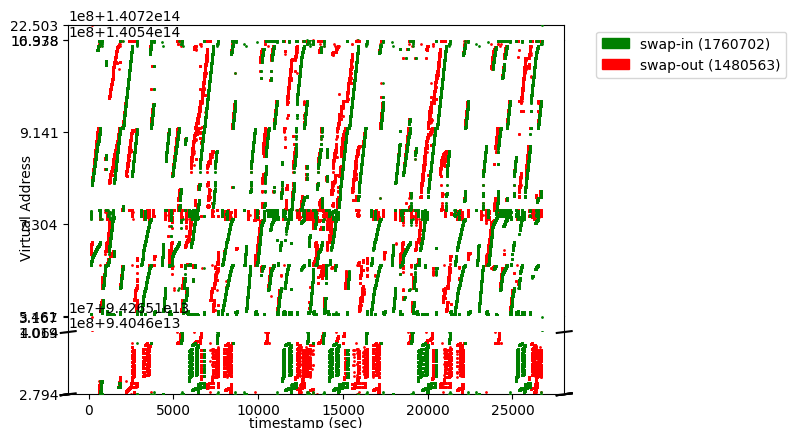
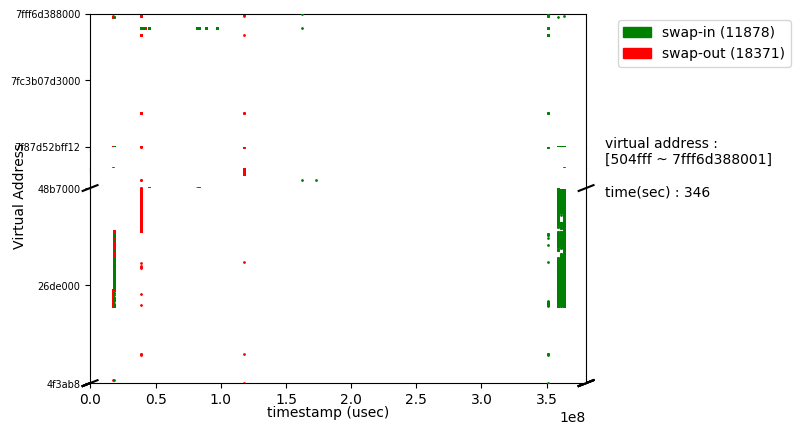
fix labels

Changed region(s): [[0.0, 0.0, 0.995, 1.0], [0.7538, 0.3037, 0.9648, 0.3949], [0.6935, 0.7593, 0.7236, 0.7897]]

diff --git a/driver/plot.py b/driver/plot.py
@@ -52,15 +52,13 @@ def plot_out(dir_path, option):
     limits = ADDRESS_RANGE
 
     for index, row in rsyslog[rsyslog['gap'] < -1 * pow(10,10)].nsmallest(3,'gap').iterrows():
-        print row['address'], row['prev'] , row['gap']
-        # pandas cut the category by ( , ] so the addresws +1 , prev-1
         limits.extend([row['address']+1, row['prev']-1])
 
     limits = sorted(limits)
 
 
 
-    print "calculate range"
+    print " > sample range"
     #START_ADDRESS = rsyslog.address.min()-PADDING
     #START_DIGITS = len(str(START_ADDRESS))-1
     #STEP = 0.001*pow(10,START_DIGITS)
@@ -91,12 +89,12 @@ def plot_out(dir_path, option):
         return weighted
 
 
-    print "add range"
+    print " > add range"
     height_ratios = map(lambda x : add_weight(x), rsyslog['axis'].value_counts(normalize=True).loc[lambda x: x > 0].sort_index(ascending=False).tolist())
 
     #print height_ratios
 
-    print "\n$ generate plot [ {} x 1 ] ".format(GRIDS)
+    print " > generate plot [ {} x 1 ] ".format(GRIDS)
 
     fig, axes = plt.subplots(nrows=GRIDS, ncols = 1, gridspec_kw={'height_ratios':height_ratios}, sharex=True)
     plt.subplots_adjust(wspace=0, hspace=0)
@@ -114,7 +112,6 @@ def plot_out(dir_path, option):
 
     idy = -1  
     
-    print "$ building plot"
     
     for name, region in rsyslog.groupby("axis"):
         if len(region) < 1:
@@ -145,7 +142,7 @@ def plot_out(dir_path, option):
             axes[converty].plot((1 - d, 1 + d), (-d, +d), **kwargs)  # top-right diagonal           
         #TODO: set ticks 
 
-        ticks = None
+        ticks = []
         if height_ratios[converty] > 50:
            ticks = map(lambda x: x.left, region['address'].value_counts(bins=3).sort_index().index.tolist())
            ticks.append(REGION_END)
@@ -153,9 +150,11 @@ def plot_out(dir_path, option):
            ticks = map(lambda x: x.left, region['address'].value_counts(bins=2).sort_index().index.tolist())
            ticks.append(REGION_END)
         else:
-            #ticks = [REGION_START, REGION_END]
-            ticks = []
+            pass
+
         axes[converty].set_yticks(ticks)
+        ticklabels = map(lambda x: format(int(x), 'x'), ticks)
+        axes[converty].set_yticklabels(ticklabels, fontsize='7')
 
 
 
@@ -165,24 +164,23 @@ def plot_out(dir_path, option):
 
     legend = axes[0].legend(handles = patches, bbox_to_anchor=(1.05, 1))
     plt.suptitle('Swap Trace [Address x timestamp]',fontsize=10)
-    fig.text(0.05, 0.5, 'Virtual Address', va='center', rotation='vertical')
+    fig.text(0.005,  0.5, 'Virtual Address', va='center', rotation='vertical')
 
-    textstr = None
+    text_str  = 'virtual address : \n[{} ~ {}]\n'.format(format(int(ADDRESS_RANGE[0]), 'x'), format(int(ADDRESS_RANGE[1]), 'x'))
     if SECONDS == True:
         fig.text(0.5, 0.04, 'timestamp (sec) ', ha='center')
-        textstr = 'Mem.used @: [{}, {}]\ntime(sec):{}'.format(hex(ADDRESS_RANGE[0]), hex(ADDRESS_RANGE[1]), (rsyslog.timestamp.max() - rsyslog.timestamp.min()))
+        text_str = '{}\ntime(sec) : {}'.format(text_str, (rsyslog.timestamp.max() - rsyslog.timestamp.min()))
     else:
         fig.text(0.5, 0.04, 'timestamp (usec) ', ha='center')
-        textstr = 'Mem.used @: [{}, {}]\ntime(sec):{}'.format(hex(ADDRESS_RANGE[0]), hex(ADDRESS_RANGE[1]), (rsyslog.timestamp.max() - rsyslog.timestamp.min())/SEC_TO_USEC)
+        text_str = '{}\ntime(sec) : {}'.format(text_str, (rsyslog.timestamp.max() - rsyslog.timestamp.min())/SEC_TO_USEC)
 
-    fig.text(0.6, 0.5, textstr)
+    fig.text(0.93, 0.5, text_str)
     plt.savefig("{}/result.png".format(dir_path),bbox_extra_artists=(legend,),bbox_inches='tight', format='png', dip=100)
 
     if os.environ.get('DISPLAY','') != '':
         plt.show()
 
 if __name__ == "__main__":
-    print "enter"
     if len (sys.argv) < 2: 
         plot_out(os.getcwd(), "mode")
     else:
